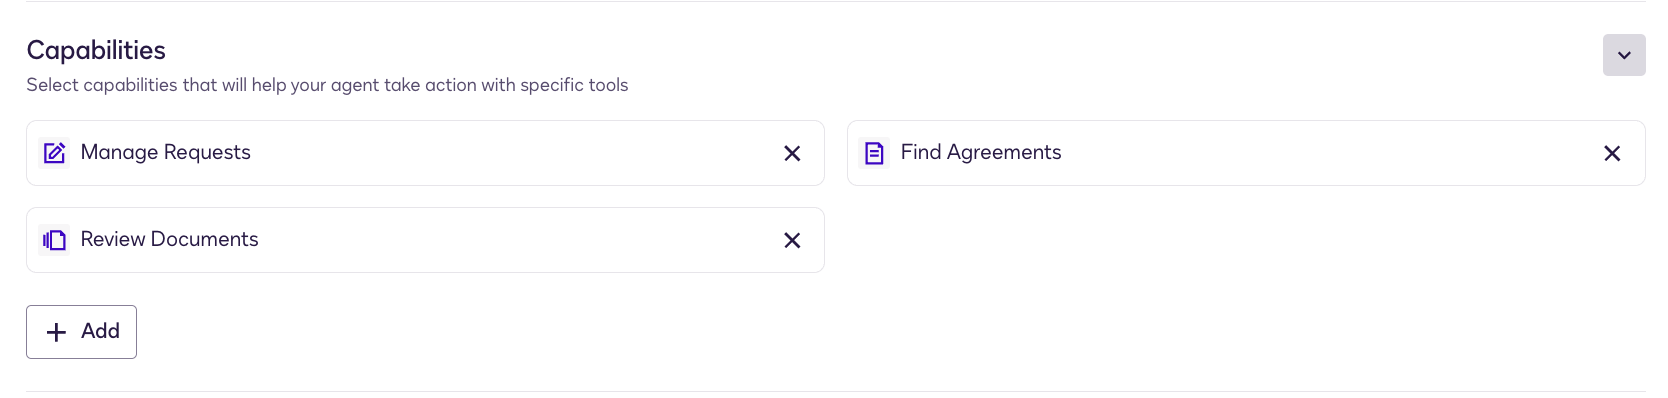
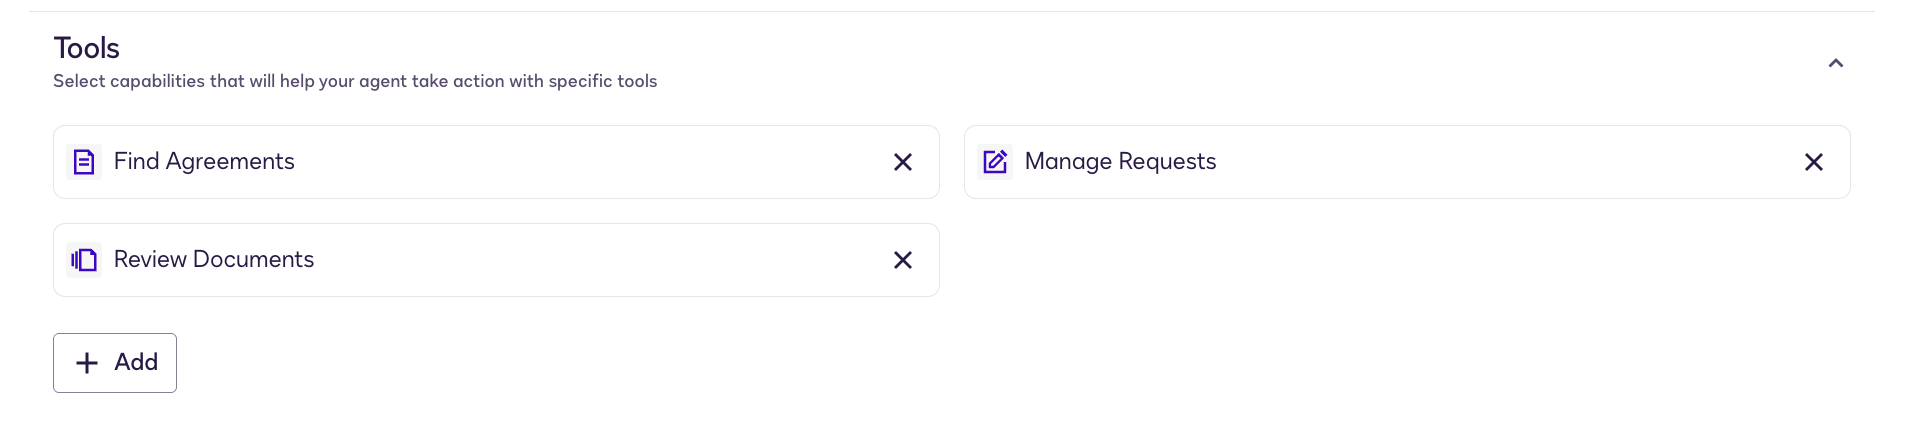
Agent-Studio-201: rename Capabilities to Tools, update screenshots in both labs

diff --git a/Agent-Studio-201/NDA-Assistant-Flow.html b/Agent-Studio-201/NDA-Assistant-Flow.html
@@ -584,13 +584,13 @@ li{margin:5px 0;}
       <div class="card">
         <p style="margin:0 0 8px;">When you created the agent from the description in 1.2, Agent Studio pre-selected a set of capabilities. Verify the selection before adding your instructions.</p>
         <div class="clickpath">
-          <div class="cp-task"><span class="cp-badge">Click path</span>Capabilities section</div>
+          <div class="cp-task"><span class="cp-badge">Click path</span>Tools section</div>
           <ol>
-            <li>Scroll down to the <b>Capabilities</b> section on the agent setup page.</li>
+            <li>Scroll down to the <b>Tools</b> section on the agent setup page.</li>
             <li>Confirm the following are selected: <b>Find Agreements</b>, <b>Generate Documents</b>, <b>Party Insights</b>, <b>Ask the User</b>.</li>
           </ol>
         </div>
-        <img src="assets/s131-capabilities.png" alt="Capabilities section showing Find Agreements, Generate Documents, Party Insights, and Ask the User" style="max-width:100%;width:100%;border:1px solid #e5e1f0;border-radius:10px;margin:14px 0;display:block;">
+        <img src="assets/s131-capabilities.png" alt="Tools section showing Find Agreements, Party Insights, Generate Documents, and Ask the User" style="max-width:100%;width:100%;border:1px solid #e5e1f0;border-radius:10px;margin:14px 0;display:block;">
         <div class="expect"><b>Checkpoint:</b> the Capabilities section lists <b>Find Agreements</b>, <b>Generate Documents</b>, <b>Party Insights</b>, and <b>Ask the User</b>.</div>
       </div>
 

diff --git a/Agent-Studio-201/2_Hands_on_Flow.html b/Agent-Studio-201/2_Hands_on_Flow.html
@@ -667,11 +667,11 @@ Using the data from the documents and the risk checklist evaluation, return the 
 
       <div class="h-check" id="sec-1-4"><input type="checkbox" data-stage="1" id="chk6"><div><h3 style="display:inline">1.4 · Add capabilities</h3></div></div>
       <ol>
-        <li>Under <b>Capabilities</b>, click <b>Add</b>.</li>
+        <li>Under <b>Tools</b>, click <b>Add</b>.</li>
         <li>Select <b>Manage Requests</b>, <b>Find Agreements</b> and <b>Review Documents</b>.</li>
         <li>Click <b>Add Capabilities</b>.</li>
       </ol>
-      <img src="assets/s14-capabilities.png" alt="Capabilities section showing Manage Requests, Find Agreements, and Review Documents added" style="max-width:100%;width:100%;border:1px solid #e5e1f0;border-radius:10px;margin:14px 0;display:block;">
+      <img src="assets/s14-capabilities.png" alt="Tools section showing Find Agreements, Manage Requests, and Review Documents" style="max-width:100%;width:100%;border:1px solid #e5e1f0;border-radius:10px;margin:14px 0;display:block;">
 
       <div class="h-check" id="sec-1-5"><input type="checkbox" data-stage="1" id="chk7"><div><h3 style="display:inline">1.5 · Test the agent, then publish</h3></div></div>
       <ol>
